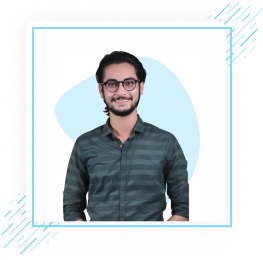
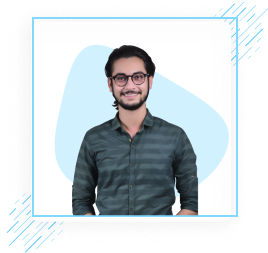
team section photos changed with new background

Changed region(s): [[0.0, 0.0, 0.9734, 0.996], [0.5779, 0.5257, 0.6084, 0.5534], [0.5475, 0.664, 0.5779, 0.6917]]

diff --git a/index.html b/index.html
@@ -238,9 +238,9 @@
         </div>
 
         <div class="custom-card-wrap-two" id="ExchangeCryptoInstantly">
-            <div class="custom-card-title-group">
+            <div class="custom-card-title-group ">
                 <img src="./assets/images/4.svg" class="custom-card-number" alt="Four">
-                <div class="custom-card-title">Exchange Crypto Instantly</div>
+                <div class="custom-card-title mt-3">Exchange Crypto Instantly</div>
             </div>
             <div class="custom-card-image-wrap">
                 <img src="./assets/images/exchange vector.svg" class="img-fluid custom-card-image-left" alt="exchange_vector">
@@ -699,7 +699,7 @@
             </div>
             <div class="col-4 col-xl-4 team-card">
                 <img src="./assets/images/team/team-saikumar.png" class="team-image" alt="Team image">
-                <div class="team-name">Sai</div>
+                <div class="team-name">Sai Kumar</div>
                 <div class="team-position">Software Ninjaneer</div>
             </div>
             <div class="col-4 col-xl-4 team-card">

diff --git a/crypto-based-platform.html b/crypto-based-platform.html
@@ -38,7 +38,7 @@
                 Works! </span><img src="./assets/images/subright.svg" alt="subright" srcset=""></div>
     </div>
 
-    <div class="row team-wrap mx-auto mb-5">
+    <div class="row team-wrap mx-auto mb-9">
         <div class="col-lg-4 col-md-6 text-center"><img src="./assets/images/get-yourself-registered.svg" class="img-fluid" alt="callouragent">
             <div class="text-crypto h5 mt-2">Get yourself registered</div>
         </div>
@@ -46,7 +46,7 @@
             <div class="text-crypto h5 mt-2">Offer Your Skills and Get Recognition Worldwide</div>
         </div>
         <div class="col-lg-4 col-md-6 text-center"><img src="./assets/images/tradenfts.svg" class="img-fluid" alt="Start Your Investment">
-            <div class="text-crypto h5 mt-2">Trade NFTs, Ensure High Returns & A Lot More</div>
+            <div class="text-crypto h5 mt-2">Trade NFTs, Ensure <br>High Returns & A Lot More</div>
         </div>
         <div class="dot2-img2">
             <img src="./assets/images/dot2-crytotohome.svg">
